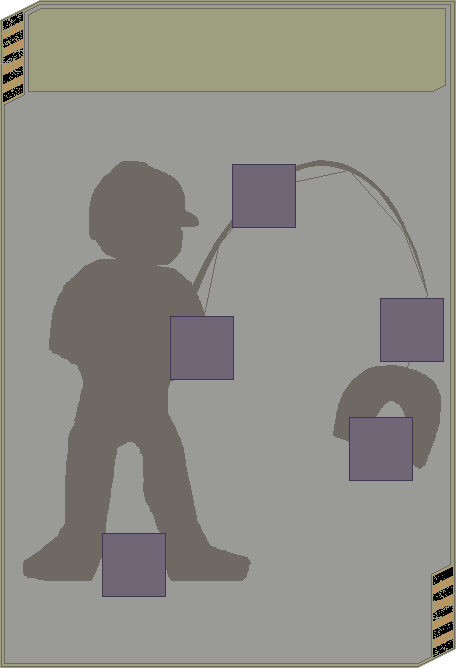
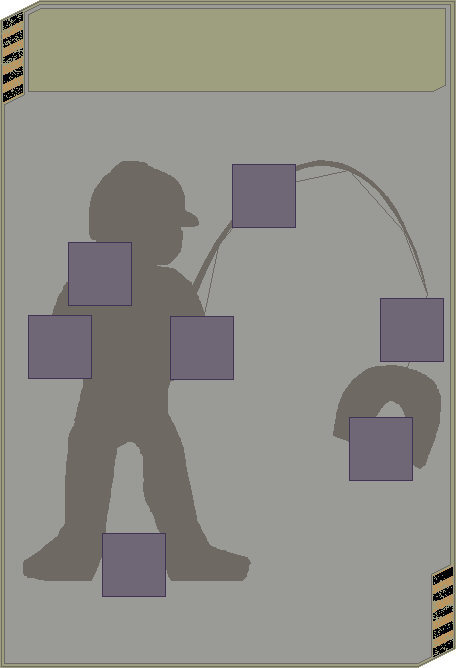
added panels for repulsor and electro magnet

Changed region(s): [[0.0614, 0.4491, 0.1842, 0.5689], [0.1228, 0.3593, 0.2456, 0.4192]]

diff --git a/ui/ui.go b/ui/ui.go
@@ -49,6 +49,14 @@ const (
 	matTextSize                            = 50
 	cbX, cbY, cbW, cbH                     = 118, 590, 119, 72
 	craftPressedDuration                   = 0.25
+	rodX, rodY                             = 233, 165
+	reelX, reelY                           = 171, 317
+	lineX, lineY                           = 381, 299
+	magX, magY                             = 350, 418
+	bootX, bootY                           = 103, 534
+	elecX, elecY                           = 29, 361
+	repX, repY                             = 69, 243
+	invSlotW, invSlotH                     = 62, 62
 )
 
 func (u *Ui) Init() {
